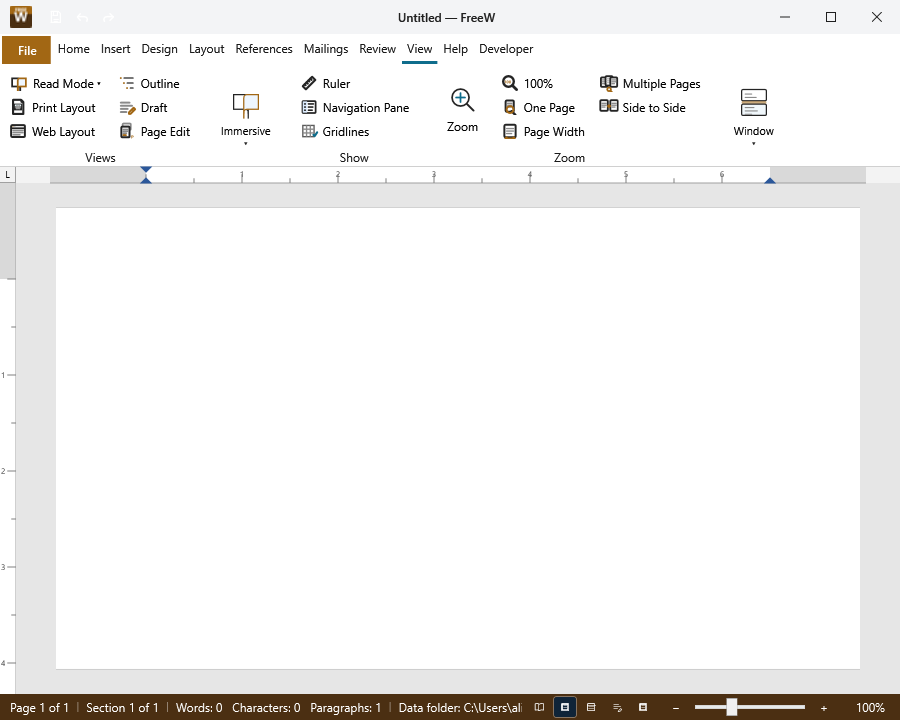
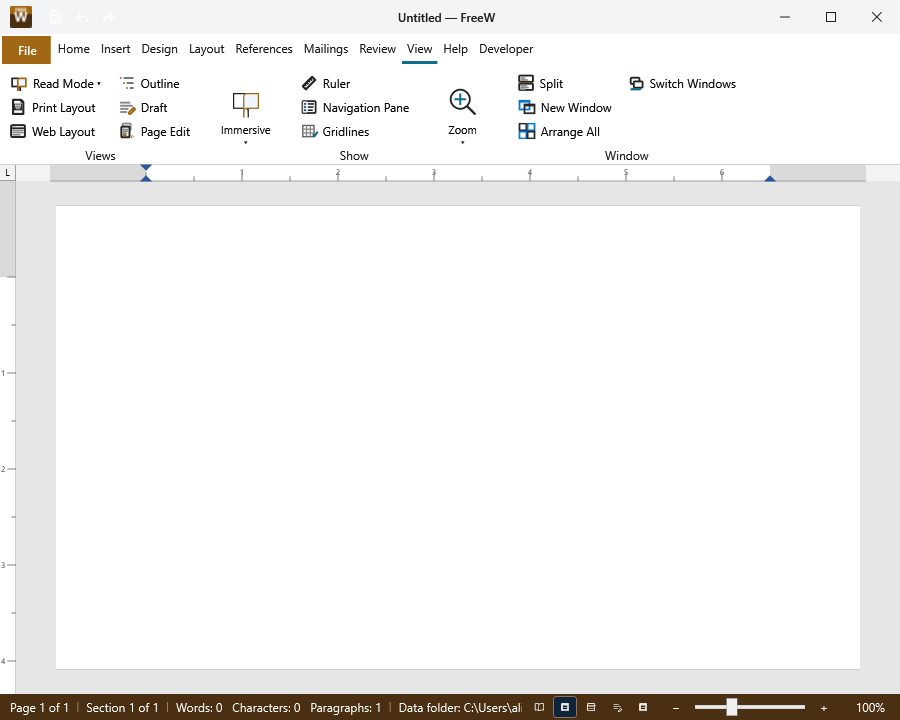
Keep FreeW Window commands visible at 900 DIP

diff --git a/freew/FreeW.App.Host.Tests/RibbonShellBuilderTests.cs b/freew/FreeW.App.Host.Tests/RibbonShellBuilderTests.cs
@@ -184,6 +184,28 @@ public sealed class RibbonShellBuilderTests
     }
 
     [StaFact]
+    public void View_CompactPresentationKeepsWindowCommandsDirectAt900Dips()
+    {
+        var view = FreeW.Ribbon.Definitions.FreeWRibbon
+            .Build(FreeW.Ribbon.Definitions.FreeWRibbonCapabilities.Wpf)
+            .FindTab("view")!;
+        var content = RibbonWpfRenderer.BuildTabContent(view, new Button());
+        var panel = FindLogicalChild<RibbonAdaptivePanel>(content)!;
+
+        content.Measure(new Size(900, 180));
+        content.Arrange(new Rect(0, 0, 900, 180));
+        content.UpdateLayout();
+
+        var window = panel.Children
+            .OfType<RibbonGroupHost>()
+            .Single(group => group.GroupName == "Window");
+
+        window.Collapsed.Should().BeFalse(
+            "Word keeps New Window, Arrange All, Split, and Switch Windows reachable before Zoom's secondary presets at 900 DIPs");
+        FindLogicalChild<Button>(Assert.IsAssignableFrom<DependencyObject>(window.Content)).Should().NotBeNull();
+    }
+
+    [StaFact]
     public void Insert_CommentStaysDirectAt750Dips()
     {
         var insert = FreeW.Ribbon.Definitions.FreeWRibbon

diff --git a/freew/FreeW.Ribbon.Definitions/FreeWCanonicalRibbonTabs.cs b/freew/FreeW.Ribbon.Definitions/FreeWCanonicalRibbonTabs.cs
@@ -445,7 +445,10 @@ internal static partial class FreeWCanonicalRibbonTabs
 
             topology.Section(
                 "view.window",
-                tab => tab.Group("window", "Window", "N", 70, group =>
+                // At Word's 900-DIP View ribbon width, keep the Window command stack direct while
+                // Zoom yields its secondary presets first. The 750-DIP lane still overflows both
+                // groups naturally once their compact forms no longer fit.
+                tab => tab.Group("window", "Window", "N", 85, group =>
                     {
                         group.MediumToggle("freew.split-window", "Split", RibbonCommandIconKind.Scale);
                         group.Medium("freew.new-window", "New Window", RibbonCommandIconKind.Page);
